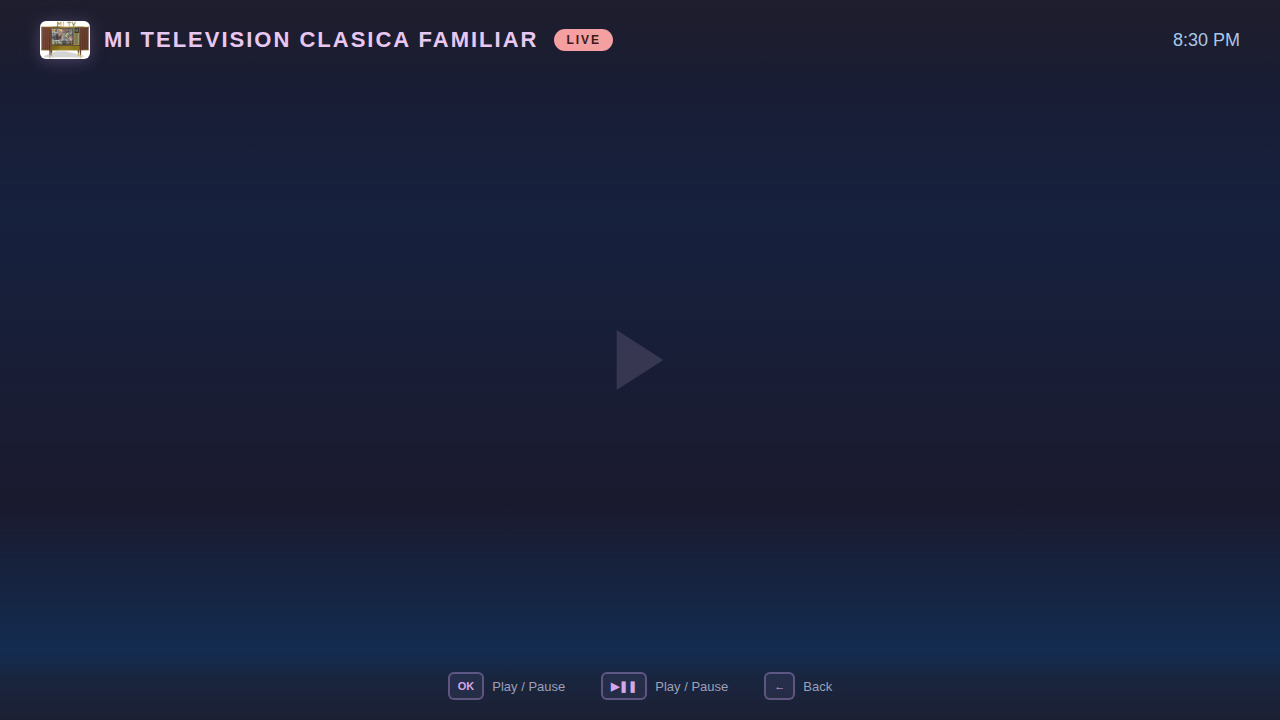
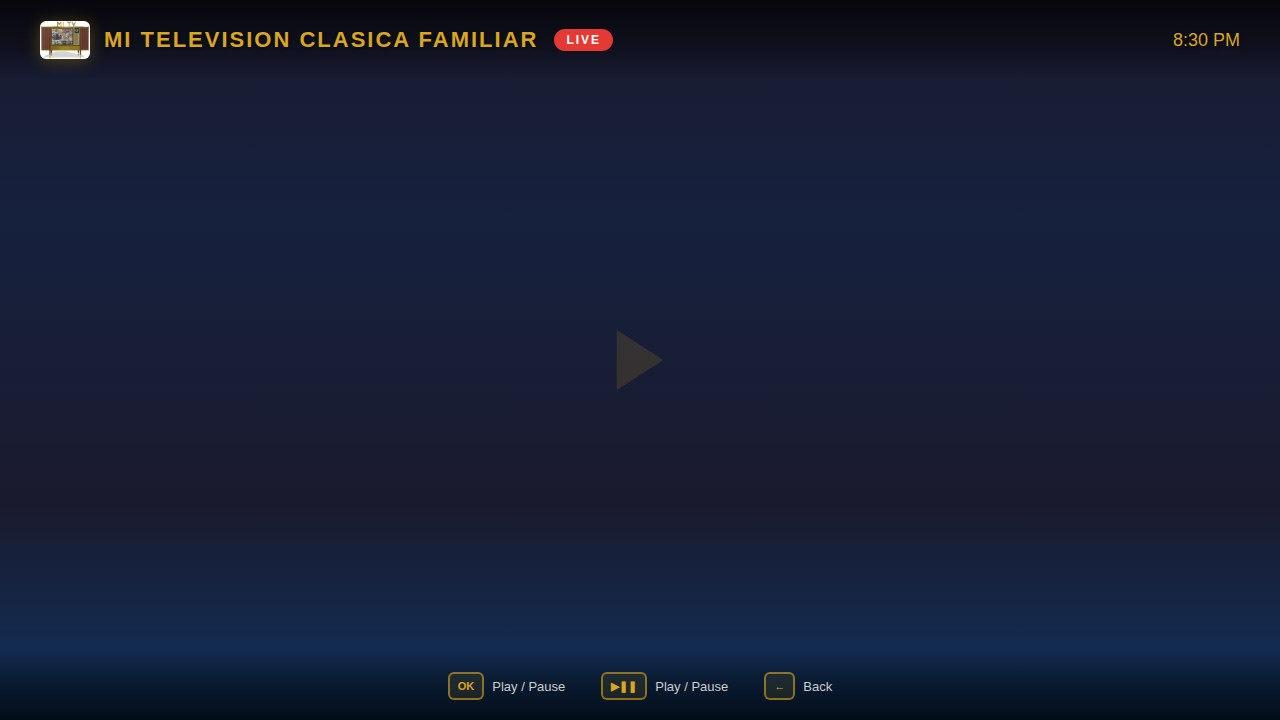
v1.3.0: White background + gold lettering
- Loading screen: white background with gold text matching MI TV logo style
- Player overlay: gold channel name and controls on dark gradient
- Updated all popups to white/gold theme

Changed region(s): [[0.0, 0.0, 1.0, 0.0917], [0.0, 0.9167, 1.0, 1.0], [0.4688, 0.4583, 0.5312, 0.55]]

diff --git a/css/style.css b/css/style.css
@@ -1,5 +1,5 @@
-/* Mi TELEVISION CLASICA - Samsung Tizen App Styles */
-/* Pastel color scheme - soft, warm, retro-classic feel */
+/* MI TELEVISION CLASICA FAMILIAR - Samsung Tizen App Styles */
+/* White background + Gold lettering (matching MI TV logo) */
 /* Coordinate space: 1920x1080 (Samsung scales to 4K automatically) */
 
 * {
@@ -17,9 +17,9 @@ body {
     width: 1920px;
     height: 1080px;
     overflow: hidden;
-    background: #1e1e2e;
+    background: #ffffff;
     font-family: 'SamsungOne', 'Segoe UI', Arial, sans-serif;
-    color: #f5f0eb;
+    color: #333333;
     -webkit-user-select: none;
     user-select: none;
 }
@@ -34,17 +34,6 @@ body {
     z-index: 1;
 }
 
-/* ── Overlay Layer ── */
-#overlay {
-    position: absolute;
-    left: 0;
-    top: 0;
-    width: 1920px;
-    height: 1080px;
-    z-index: 10;
-    pointer-events: none;
-}
-
 /* ── Loading Screen ── */
 #loading-screen {
     position: absolute;
@@ -53,7 +42,7 @@ body {
     width: 1920px;
     height: 1080px;
     z-index: 100;
-    background: linear-gradient(135deg, #2d2b42 0%, #1e1e2e 40%, #2a2540 70%, #1e1e2e 100%);
+    background: #ffffff;
     display: flex;
     flex-direction: column;
     align-items: center;
@@ -75,23 +64,23 @@ body {
 #loading-screen .logo-container img {
     width: 100%;
     height: auto;
-    border-radius: 16px;
-    filter: drop-shadow(0 6px 30px rgba(183, 148, 214, 0.3));
+    border-radius: 12px;
+    filter: drop-shadow(0 6px 24px rgba(0, 0, 0, 0.15));
 }
 
 #loading-screen .app-title {
     font-size: 52px;
     font-weight: 700;
-    color: #e8c8f0;
-    text-shadow: 0 2px 12px rgba(183, 148, 214, 0.4);
-    letter-spacing: 6px;
+    color: #b8860b;
+    text-shadow: 1px 1px 2px rgba(184, 134, 11, 0.3);
+    letter-spacing: 5px;
     margin-bottom: 8px;
     text-align: center;
 }
 
 #loading-screen .app-subtitle {
     font-size: 26px;
-    color: #a8c8e8;
+    color: #c5a236;
     letter-spacing: 5px;
     margin-bottom: 50px;
     font-weight: 300;
@@ -101,8 +90,8 @@ body {
 .spinner {
     width: 56px;
     height: 56px;
-    border: 4px solid rgba(183, 148, 214, 0.2);
-    border-top: 4px solid #d4a8e8;
+    border: 4px solid rgba(184, 134, 11, 0.2);
+    border-top: 4px solid #b8860b;
     border-radius: 50%;
     animation: spin 1s linear infinite;
 }
@@ -115,7 +104,7 @@ body {
 .loading-text {
     margin-top: 20px;
     font-size: 20px;
-    color: #a8c8e8;
+    color: #c5a236;
     letter-spacing: 2px;
     font-weight: 300;
 }
@@ -127,7 +116,7 @@ body {
     left: 0;
     width: 1920px;
     height: 120px;
-    background: linear-gradient(180deg, rgba(30,30,46,0.92) 0%, rgba(30,30,46,0.6) 60%, rgba(30,30,46,0) 100%);
+    background: linear-gradient(180deg, rgba(0,0,0,0.75) 0%, rgba(0,0,0,0.4) 60%, rgba(0,0,0,0) 100%);
     display: flex;
     align-items: center;
     padding: 0 60px;
@@ -146,26 +135,27 @@ body {
     height: auto;
     margin-right: 18px;
     border-radius: 8px;
-    filter: drop-shadow(0 2px 8px rgba(183, 148, 214, 0.3));
+    filter: drop-shadow(0 2px 8px rgba(184, 134, 11, 0.4));
 }
 
 #top-bar .channel-name {
     font-size: 30px;
-    font-weight: 600;
-    color: #e8c8f0;
-    letter-spacing: 2px;
+    font-weight: 700;
+    color: #daa520;
+    letter-spacing: 3px;
+    text-shadow: 1px 1px 3px rgba(0, 0, 0, 0.5);
 }
 
 #top-bar .live-badge {
     margin-left: 20px;
     padding: 5px 16px;
-    background: #f4a0a0;
+    background: #e53935;
     border-radius: 20px;
     font-size: 16px;
     font-weight: 700;
     letter-spacing: 2px;
     text-transform: uppercase;
-    color: #3a1a1a;
+    color: #ffffff;
     animation: pulse-live 2s ease-in-out infinite;
 }
 
@@ -177,8 +167,9 @@ body {
 #top-bar .clock {
     margin-left: auto;
     font-size: 26px;
-    color: #a8c8e8;
+    color: #daa520;
     font-weight: 300;
+    text-shadow: 1px 1px 3px rgba(0, 0, 0, 0.5);
 }
 
 /* ── Bottom Bar ── */
@@ -188,7 +179,7 @@ body {
     left: 0;
     width: 1920px;
     height: 100px;
-    background: linear-gradient(0deg, rgba(30,30,46,0.92) 0%, rgba(30,30,46,0.6) 60%, rgba(30,30,46,0) 100%);
+    background: linear-gradient(0deg, rgba(0,0,0,0.75) 0%, rgba(0,0,0,0.4) 60%, rgba(0,0,0,0) 100%);
     display: flex;
     align-items: flex-end;
     justify-content: center;
@@ -209,7 +200,7 @@ body {
     align-items: center;
     gap: 10px;
     font-size: 18px;
-    color: #9ca0b8;
+    color: #cccccc;
 }
 
 .control-hint .key-icon {
@@ -219,12 +210,12 @@ body {
     min-width: 34px;
     height: 34px;
     padding: 0 10px;
-    border: 2px solid rgba(183, 148, 214, 0.4);
+    border: 2px solid rgba(218, 165, 32, 0.6);
     border-radius: 8px;
     font-size: 14px;
-    color: #d4a8e8;
+    color: #daa520;
     font-weight: 600;
-    background: rgba(183, 148, 214, 0.08);
+    background: rgba(218, 165, 32, 0.1);
 }
 
 /* ── Buffering Overlay ── */
@@ -235,7 +226,7 @@ body {
     width: 1920px;
     height: 1080px;
     z-index: 50;
-    background: rgba(30, 30, 46, 0.6);
+    background: rgba(255, 255, 255, 0.7);
     display: none;
     flex-direction: column;
     align-items: center;
@@ -250,14 +241,12 @@ body {
     width: 76px;
     height: 76px;
     border-width: 5px;
-    border-color: rgba(168, 200, 232, 0.2);
-    border-top-color: #a8c8e8;
 }
 
 #buffering-overlay .buffering-text {
     margin-top: 22px;
     font-size: 24px;
-    color: #e8c8f0;
+    color: #b8860b;
     letter-spacing: 2px;
     font-weight: 400;
 }
@@ -265,7 +254,7 @@ body {
 #buffering-overlay .buffering-percent {
     margin-top: 8px;
     font-size: 18px;
-    color: #a8c8e8;
+    color: #c5a236;
 }
 
 /* ── Pause Indicator ── */
@@ -277,13 +266,12 @@ body {
     z-index: 30;
     width: 110px;
     height: 110px;
-    background: rgba(30, 30, 46, 0.65);
-    border: 3px solid rgba(212, 168, 232, 0.4);
+    background: rgba(0, 0, 0, 0.5);
+    border: 3px solid rgba(218, 165, 32, 0.6);
     border-radius: 50%;
     display: none;
     align-items: center;
     justify-content: center;
-    backdrop-filter: blur(4px);
 }
 
 #pause-indicator.active {
@@ -293,7 +281,7 @@ body {
 #pause-indicator svg {
     width: 44px;
     height: 44px;
-    fill: #e8c8f0;
+    fill: #daa520;
 }
 
 /* ── Error / Network Popup ── */
@@ -304,13 +292,13 @@ body {
     transform: translate(-50%, -50%);
     z-index: 200;
     width: 680px;
-    background: #2a2845;
-    border: 2px solid rgba(212, 168, 232, 0.5);
+    background: #ffffff;
+    border: 2px solid #daa520;
     border-radius: 20px;
     padding: 50px;
     text-align: center;
     display: none;
-    box-shadow: 0 10px 60px rgba(0, 0, 0, 0.5);
+    box-shadow: 0 10px 60px rgba(0, 0, 0, 0.15);
 }
 
 #error-popup.active {
@@ -325,13 +313,13 @@ body {
 #error-popup .error-title {
     font-size: 30px;
     font-weight: 600;
-    color: #f4a0a0;
+    color: #b8860b;
     margin-bottom: 14px;
 }
 
 #error-popup .error-message {
     font-size: 20px;
-    color: #b0b4cc;
+    color: #666666;
     line-height: 1.6;
     margin-bottom: 36px;
 }
@@ -346,20 +334,20 @@ body {
     padding: 14px 40px;
     font-size: 20px;
     font-weight: 600;
-    border: 2px solid rgba(160, 168, 200, 0.3);
+    border: 2px solid #cccccc;
     border-radius: 12px;
     background: transparent;
-    color: #f5f0eb;
+    color: #333333;
     cursor: pointer;
     outline: none;
     transition: all 0.2s ease;
 }
 
 .popup-btn.focused {
-    border-color: #d4a8e8;
-    background: rgba(212, 168, 232, 0.15);
-    color: #e8c8f0;
-    box-shadow: 0 0 24px rgba(212, 168, 232, 0.2);
+    border-color: #daa520;
+    background: rgba(218, 165, 32, 0.1);
+    color: #b8860b;
+    box-shadow: 0 0 24px rgba(218, 165, 32, 0.15);
 }
 
 /* ── Exit Confirmation Popup ── */
@@ -370,13 +358,13 @@ body {
     transform: translate(-50%, -50%);
     z-index: 200;
     width: 580px;
-    background: #2a2845;
-    border: 2px solid rgba(212, 168, 232, 0.5);
+    background: #ffffff;
+    border: 2px solid #daa520;
     border-radius: 20px;
     padding: 50px;
     text-align: center;
     display: none;
-    box-shadow: 0 10px 60px rgba(0, 0, 0, 0.5);
+    box-shadow: 0 10px 60px rgba(0, 0, 0, 0.15);
 }
 
 #exit-popup.active {
@@ -386,13 +374,13 @@ body {
 #exit-popup .exit-title {
     font-size: 34px;
     font-weight: 600;
-    color: #e8c8f0;
+    color: #b8860b;
     margin-bottom: 14px;
 }
 
 #exit-popup .exit-message {
     font-size: 22px;
-    color: #b0b4cc;
+    color: #666666;
     margin-bottom: 36px;
 }
 
